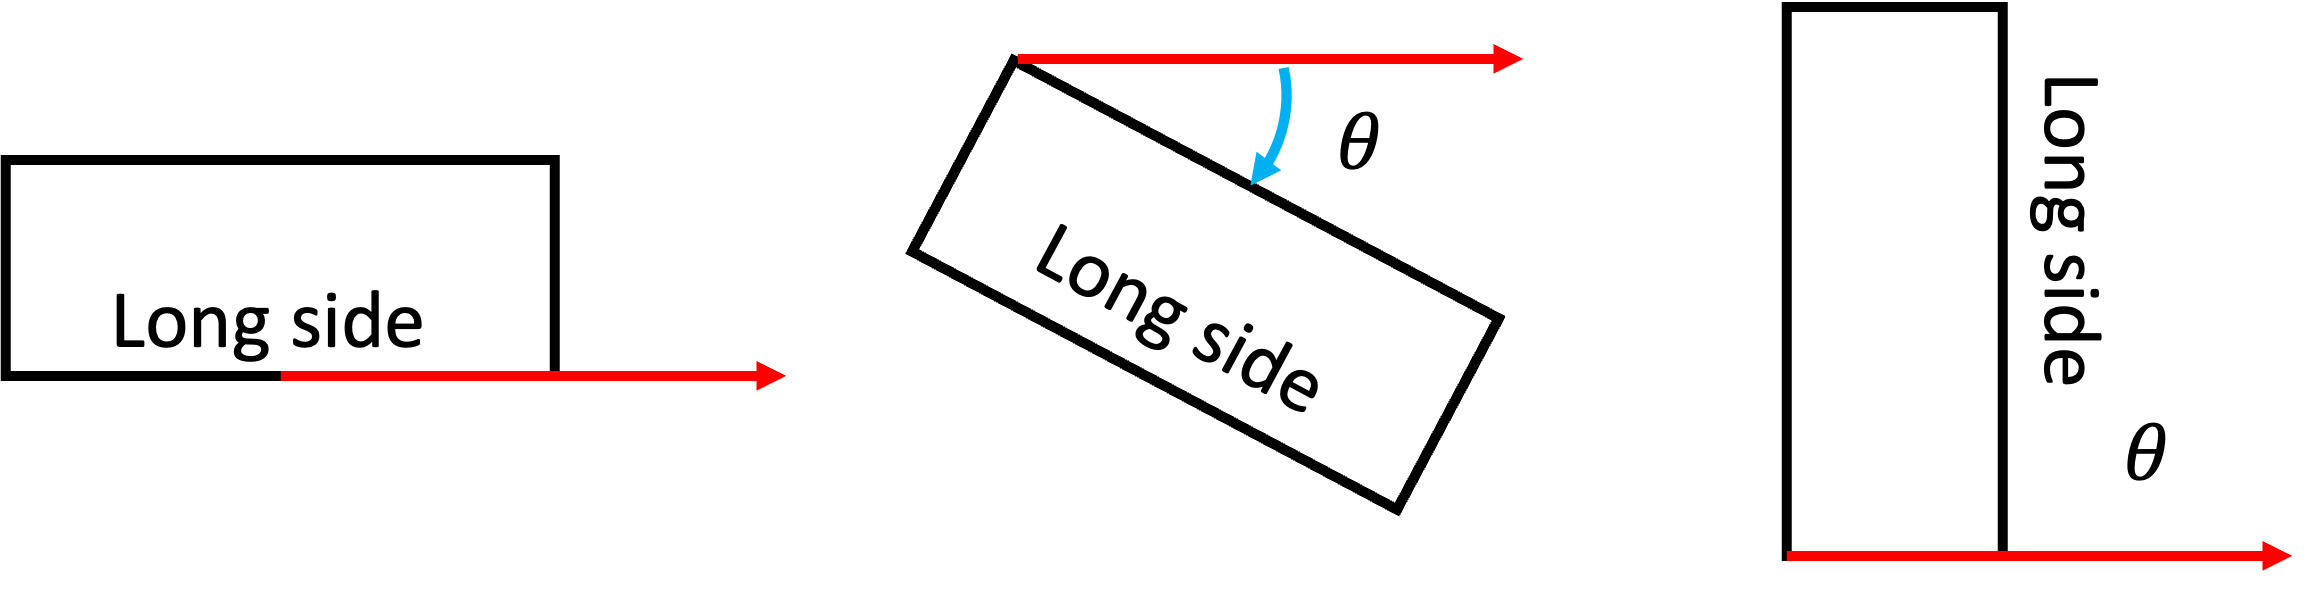
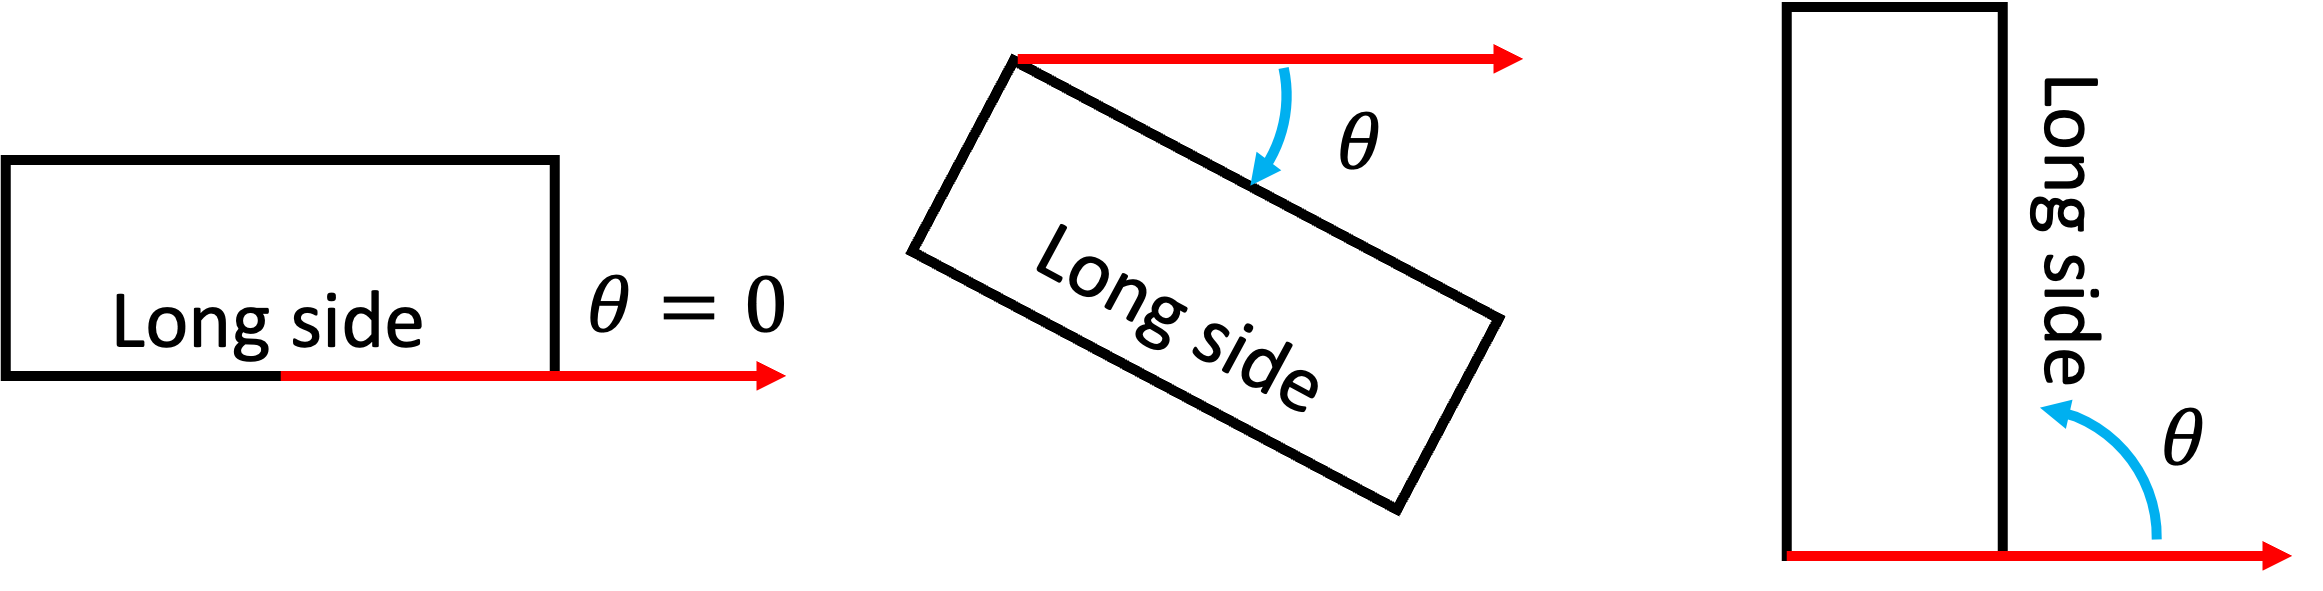
feat: Implement image carousel for system overview with new figures and update instrument tracking section with new definitions.

Changed region(s): [[0.8678, 0.6701, 0.9608, 0.9137], [0.248, 0.4569, 0.3409, 0.5787]]

diff --git a/index.html b/index.html
@@ -324,16 +324,80 @@
     <section class="section" style="padding-top: 2rem; padding-bottom: 1rem;">
       <div class="container is-max-desktop has-text-centered">
         <h2 class="title is-3">System Overview</h2>
-        <!-- TODO: Replace with your system overview figure -->
-        <figure class="image" style="margin: 0 auto; max-width: 900px;">
-          <img src="static/images/fig_system_overview.png"
-            alt="Overview of the AI-empowered one-surgeon-four-arm robotic system for solo hysterectomy" loading="lazy"
-            style="width: 100%; border-radius: 8px; box-shadow: 0 4px 24px rgba(0,0,0,0.12);" />
-        </figure>
-        <p class="subtitle is-6 has-text-centered" style="margin-top: 1rem; color: #555;">
-          <b>Fig. 1.</b> Overview of the AI-empowered cooperative one-surgeon-four-arm (OSFA) robotic system.
-          <!-- TODO: Replace with your figure caption -->
-        </p>
+
+        <!-- Image Gallery / Carousel -->
+        <div class="osfa-gallery" id="systemOverviewGallery" style="position:relative; max-width:900px; margin:0 auto;">
+
+          <!-- Viewport: clips overflowing slides -->
+          <div style="overflow:hidden; border-radius:8px;">
+            <!-- Track: slides laid out side-by-side -->
+            <div id="systemOverviewGallery-track"
+              style="display:flex; transition:transform 0.45s cubic-bezier(0.4,0,0.2,1); will-change:transform;">
+
+              <div class="osfa-slide" style="min-width:100%; box-sizing:border-box;">
+                <figure class="image">
+                  <img src="static/images/fig1_v2.jpg"
+                    alt="Overview of the AI-empowered one-surgeon-four-arm robotic system for solo hysterectomy"
+                    loading="lazy" style="width:100%; border-radius:8px; box-shadow:0 4px 24px rgba(0,0,0,0.12);" />
+                </figure>
+                <p class="subtitle is-6 has-text-centered" style="margin-top:1rem; color:#555;">
+                  <b>Fig. 1.</b> Overview of the AI-empowered cooperative one-surgeon-four-arm (OSFA) robotic system.
+                </p>
+              </div>
+
+              <div class="osfa-slide" style="min-width:100%; box-sizing:border-box;">
+                <figure class="image">
+                  <img src="static/images/fig2_v2.jpg" alt="Second system overview figure — placeholder" loading="lazy"
+                    style="width:100%; border-radius:8px; box-shadow:0 4px 24px rgba(0,0,0,0.12);" />
+                </figure>
+                <p class="subtitle is-6 has-text-centered" style="margin-top:1rem; color:#555;">
+                  <b>Fig. 2.</b> Schematic overview and hardware design of OSFA system for total
+                  laparoscopic hysterectomy.
+                </p>
+              </div>
+
+            </div>
+          </div>
+
+          <!-- Prev / Next arrows -->
+          <button onclick="osfa_gallery_prev('systemOverviewGallery')" style="position:absolute; top:42%; left:-2.5rem; transform:translateY(-50%);
+                   background:rgba(255,255,255,0.85); border:none; border-radius:50%;
+                   width:2.2rem; height:2.2rem; font-size:1.1rem; cursor:pointer;
+                   box-shadow:0 2px 8px rgba(0,0,0,0.15); display:flex; align-items:center; justify-content:center;"
+            aria-label="Previous figure">&#8249;</button>
+          <button onclick="osfa_gallery_next('systemOverviewGallery')" style="position:absolute; top:42%; right:-2.5rem; transform:translateY(-50%);
+                   background:rgba(255,255,255,0.85); border:none; border-radius:50%;
+                   width:2.2rem; height:2.2rem; font-size:1.1rem; cursor:pointer;
+                   box-shadow:0 2px 8px rgba(0,0,0,0.15); display:flex; align-items:center; justify-content:center;"
+            aria-label="Next figure">&#8250;</button>
+
+          <!-- Dot indicators -->
+          <div id="systemOverviewGallery-dots"
+            style="margin-top:0.75rem; display:flex; justify-content:center; gap:0.4rem;">
+            <span onclick="osfa_gallery_goto('systemOverviewGallery',0)"
+              style="width:8px;height:8px;border-radius:50%;background:#333;cursor:pointer;display:inline-block;opacity:1;transition:opacity 0.3s;"></span>
+            <span onclick="osfa_gallery_goto('systemOverviewGallery',1)"
+              style="width:8px;height:8px;border-radius:50%;background:#333;cursor:pointer;display:inline-block;opacity:0.3;transition:opacity 0.3s;"></span>
+          </div>
+        </div>
+
+        <script>
+          (function () {
+            var _idx = { systemOverviewGallery: 0 };
+            function _count(id) { return document.querySelectorAll('#' + id + ' .osfa-slide').length; }
+            function _dots(id) { return document.querySelectorAll('#' + id + '-dots span'); }
+            function _show(id, idx) {
+              var n = _count(id);
+              idx = ((idx % n) + n) % n;
+              _idx[id] = idx;
+              document.getElementById(id + '-track').style.transform = 'translateX(-' + (idx * 100) + '%)';
+              _dots(id).forEach(function (d, i) { d.style.opacity = i === idx ? '1' : '0.3'; });
+            }
+            window.osfa_gallery_prev = function (id) { _show(id, _idx[id] - 1); };
+            window.osfa_gallery_next = function (id) { _show(id, (_idx[id] || 0) + 1); };
+            window.osfa_gallery_goto = function (id, i) { _show(id, i); };
+          })();
+        </script>
       </div>
     </section>
     <!-- End hero figure -->
@@ -495,7 +559,44 @@
 
         <!-- ── 1. Instrument Tracking & Depth Estimation ── -->
         <h3 class="title is-4" style="margin-top: 2.5rem;">1 · Instrument Tracking &amp; Depth Estimation</h3>
-        <h4 class="title is-5" style="margin-top: 2rem;">Tool Tracking Dataset</h4>
+        <h4 class="title is-5" style="margin-top: 2rem;">Tool Detection Dataset</h4>
+
+        <p class="mb-3 has-text-justified">
+          Each instrument is represented by its <b>top-left corner</b> (the bounding-rectangle corner closest to the
+          image origin) and orientation angle <b>θ</b> (the acute angle between the instrument axis and the
+          horizontal).
+        </p>
+        <!-- Illustrative figures: top-left definition & theta definition -->
+        <div class="columns is-vcentered" style="margin-bottom:1.5rem;">
+          <div class="column">
+            <figure class="image">
+              <img src="static/images/definition_topleft.png"
+                alt="Illustration of top-left corner definition for surgical instruments" loading="lazy"
+                style="border-radius:8px; box-shadow:0 4px 16px rgba(0,0,0,0.10);" />
+            </figure>
+            <p class="has-text-centered is-size-7" style="margin-top:0.5rem; color:#555;">
+              <!-- TODO: Replace image src -->
+              Illustration of the <b>top-left corner</b> definition on a laparoscopic instrument.
+            </p>
+          </div>
+          <div class="column">
+            <figure class="image">
+              <img src="static/images/definition_box.png"
+                alt="Illustration of theta orientation angle for surgical instruments" loading="lazy"
+                style="border-radius:8px; box-shadow:0 4px 16px rgba(0,0,0,0.10);" />
+            </figure>
+            <p class="has-text-centered is-size-7" style="margin-top:0.5rem; color:#555;">
+              <!-- TODO: Replace image src -->
+              Illustration of the orientation angle <b>θ</b> relative to the horizontal image axis.
+            </p>
+          </div>
+        </div>
+
+        <p class="mb-3 has-text-justified">
+          We convert the instance-annotated dataset (<b>Fig. A</b>) into a top-left corner
+          representation by deriving each instrument's top-left corner and orientation angle <b>θ</b>,
+          yielding the converted dataset shown in <b>Fig. B</b>.
+        </p>
         <div class="columns is-vcentered">
           <div class="column">
             <figure class="image">
@@ -503,7 +604,7 @@
                 style="border-radius:8px; box-shadow:0 4px 16px rgba(0,0,0,0.10);" />
             </figure>
             <p class="has-text-centered is-size-7" style="margin-top:0.5rem; color:#555;">
-              <b>Fig. A.</b> Labeled tool tracking dataset with instance annotations.
+              <b>Fig. A.</b> Labeled tool detection dataset with instance annotations.
             </p>
           </div>
           <div class="column">
@@ -517,36 +618,61 @@
           </div>
         </div>
 
+        <h4 class="title is-5" style="margin-top: 2rem;">Detailed In-Vivo Tracking Cases</h4>
         <p class="mb-4 has-text-justified">
-          Real-time tracking of surgical instruments at 60 fps with simultaneous depth estimation,
-          enabling robust 3-D awareness in live surgical scenes.
+          Representative clips from four in-vivo surgical sequences demonstrating robust real-time
+          instrument tracking under clinical conditions (with 2x speedup playback).
         </p>
-        <div class="columns">
-          <div class="column">
+        <div class="columns is-multiline">
+          <div class="column is-half">
             <div class="card">
               <div class="card-image">
-                <video controls muted loop width="100%" preload="metadata" style="display:block;">
-                  <source src="static/videos/res_tracking_smooth.mp4" type="video/mp4">
+                <video autoplay controls muted loop width="100%" preload="metadata" style="display:block;">
+                  <source src="static/videos/invivo_tracking_v1-clips01-x2.mp4" type="video/mp4">
                 </video>
               </div>
               <div class="card-content">
-                <p class="title is-6">Smooth Real-Time Tracking</p>
-                <p class="subtitle is-7">Multi-instrument detection and tracking at 60 fps under challenging surgical
-                  conditions.</p>
+                <p class="title is-6">In-Vivo Case 1</p>
+                <p class="subtitle is-7">Real-time instrument tracking in a live surgical scene.</p>
               </div>
             </div>
           </div>
-          <div class="column">
+          <div class="column is-half">
             <div class="card">
               <div class="card-image">
-                <video controls muted loop width="100%" preload="metadata" style="display:block;">
-                  <source src="static/videos/res_depth_estimation.mp4" type="video/mp4">
+                <video autoplay controls muted loop width="100%" preload="metadata" style="display:block;">
+                  <source src="static/videos/invivo_tracking_v1-clips02-x2.mp4" type="video/mp4">
                 </video>
               </div>
               <div class="card-content">
-                <p class="title is-6">Real-Time Depth Estimation (60 fps)</p>
-                <p class="subtitle is-7">Dense depth maps inferred in real time, providing the robot with accurate
-                  instrument–tissue distance cues.</p>
+                <p class="title is-6">In-Vivo Case 2</p>
+                <p class="subtitle is-7">Continued tracking across a different phase.</p>
+              </div>
+            </div>
+          </div>
+          <div class="column is-half">
+            <div class="card">
+              <div class="card-image">
+                <video autoplay controls muted loop width="100%" preload="metadata" style="display:block;">
+                  <source src="static/videos/invivo_tracking_v2-clips01-x2.mp4" type="video/mp4">
+                </video>
+              </div>
+              <div class="card-content">
+                <p class="title is-6">In-Vivo Case 3</p>
+                <p class="subtitle is-7">Instrument tracking under challenging in-vivo conditions.</p>
+              </div>
+            </div>
+          </div>
+          <div class="column is-half">
+            <div class="card">
+              <div class="card-image">
+                <video autoplay controls muted loop width="100%" preload="metadata" style="display:block;">
+                  <source src="static/videos/invivo_tracking_v2-clips02-x2.mp4" type="video/mp4">
+                </video>
+              </div>
+              <div class="card-content">
+                <p class="title is-6">In-Vivo Case 4</p>
+                <p class="subtitle is-7">Robust tracking maintained through complex instrument interactions.</p>
               </div>
             </div>
           </div>
@@ -614,9 +740,10 @@
 
         <h4 class="title is-5" style="margin-top: 2rem;">Phantom &amp; In-Vivo Validation Cases</h4>
         <p class="mb-4 has-text-justified">
-          Each case demonstrates the top-left corner tracking mechanism. For every video, we show
-          the <b>initial top-left corner label</b> (before processing) alongside <b>our tracked
-            top-left corner result</b>, highlighting the improvement in localization accuracy.
+          Each case illustrates the top-left corner tracking mechanism by juxtaposing the
+          <b>initial top-left corner label</b> (raw detector output) with <b>our tracked result</b>.
+          The initial predictions exhibit temporal discontinuities due to per-frame detection noise,
+          which our tracking mechanism effectively suppresses to yield temporally consistent localization.
         </p>
 
         <!-- Phantom cases -->
@@ -631,7 +758,7 @@
           style="margin-bottom:1.5rem; border-bottom:1px solid #eee; padding-bottom:1.5rem;">
           <div class="column is-half">
             <p class="is-size-7 has-text-weight-bold mb-1">Phantom Case 1</p>
-            <video controls muted loop width="100%" preload="metadata"
+            <video autoplay controls muted loop width="100%" preload="metadata"
               style="display:block; border-radius:6px; box-shadow:0 2px 8px rgba(0,0,0,0.10);">
               <source src="static/videos/res_phantom_case1.mp4" type="video/mp4">
             </video>
@@ -662,7 +789,7 @@
           style="margin-bottom:1.5rem; border-bottom:1px solid #eee; padding-bottom:1.5rem;">
           <div class="column is-half">
             <p class="is-size-7 has-text-weight-bold mb-1">Phantom Case 2</p>
-            <video controls muted loop width="100%" preload="metadata"
+            <video autoplay controls muted loop width="100%" preload="metadata"
               style="display:block; border-radius:6px; box-shadow:0 2px 8px rgba(0,0,0,0.10);">
               <source src="static/videos/res_phantom_case2.mp4" type="video/mp4">
             </video>
@@ -693,7 +820,7 @@
           style="margin-bottom:1.5rem; border-bottom:1px solid #eee; padding-bottom:1.5rem;">
           <div class="column is-half">
             <p class="is-size-7 has-text-weight-bold mb-1">Phantom Case 3</p>
-            <video controls muted loop width="100%" preload="metadata"
+            <video autoplay controls muted loop width="100%" preload="metadata"
               style="display:block; border-radius:6px; box-shadow:0 2px 8px rgba(0,0,0,0.10);">
               <source src="static/videos/res_phantom_case3.mp4" type="video/mp4">
             </video>
@@ -729,7 +856,7 @@
           style="margin-bottom:1.5rem; border-bottom:1px solid #eee; padding-bottom:1.5rem;">
           <div class="column is-half">
             <p class="is-size-7 has-text-weight-bold mb-1">In-Vivo Case 1</p>
-            <video controls muted loop width="100%" preload="metadata"
+            <video autoplay controls muted loop width="100%" preload="metadata"
               style="display:block; border-radius:6px; box-shadow:0 2px 8px rgba(0,0,0,0.10);">
               <source src="static/videos/res_invivo_case1.mp4" type="video/mp4">
             </video>
@@ -760,7 +887,7 @@
           style="margin-bottom:1.5rem; border-bottom:1px solid #eee; padding-bottom:1.5rem;">
           <div class="column is-half">
             <p class="is-size-7 has-text-weight-bold mb-1">In-Vivo Case 2</p>
-            <video controls muted loop width="100%" preload="metadata"
+            <video autoplay controls muted loop width="100%" preload="metadata"
               style="display:block; border-radius:6px; box-shadow:0 2px 8px rgba(0,0,0,0.10);">
               <source src="static/videos/res_invivo_case2.mp4" type="video/mp4">
             </video>
@@ -790,7 +917,7 @@
         <div class="columns is-vcentered" style="margin-bottom:2rem;">
           <div class="column is-half">
             <p class="is-size-7 has-text-weight-bold mb-1">In-Vivo Case 3</p>
-            <video controls muted loop width="100%" preload="metadata"
+            <video autoplay controls muted loop width="100%" preload="metadata"
               style="display:block; border-radius:6px; box-shadow:0 2px 8px rgba(0,0,0,0.10);">
               <source src="static/videos/res_invivo_case3.mp4" type="video/mp4">
             </video>
@@ -820,7 +947,7 @@
         <h3 class="title is-4" style="margin-top: 3rem;">2 · GUI Interface</h3>
         <p class="mb-4 has-text-justified">
           The surgeon-facing GUI integrates real-time surgical scene understanding, instrument
-          tracking overlays, laparoscope control feedback, and LoCC mode selection in a single
+          tracking overlays, laparoscope/uterus control feedback, and LoCC mode selection in a single
           unified interface.
         </p>
         <figure class="image" style="margin: 0 auto;">
@@ -833,17 +960,31 @@
         </p>
 
         <!-- ── 3. Automated Laparoscope Control ── -->
-        <h3 class="title is-4" style="margin-top: 3rem;">3 · Automated Laparoscope Control</h3>
+        <h3 class="title is-4" style="margin-top: 3rem;">3 · 3D Automatic Laparoscope Control</h3>
         <p class="mb-4 has-text-justified">
           The system autonomously adjusts laparoscope position and field-of-view scale in real time
           based on surgical scene understanding — eliminating the need for an assistant to hold or
           reposition the camera during the procedure.
         </p>
-        <div class="columns is-centered">
-          <div class="column is-three-quarters">
+        <div class="columns">
+          <div class="column">
             <div class="card">
               <div class="card-image">
-                <video controls muted loop width="100%" preload="metadata" style="display:block;">
+                <video autoplay controls muted loop width="100%" preload="metadata" style="display:block;">
+                  <source src="static/videos/res_depth_estimation.mp4" type="video/mp4">
+                </video>
+              </div>
+              <div class="card-content">
+                <p class="title is-6">Real-Time Depth Estimation (60 fps)</p>
+                <p class="subtitle is-7">Dense depth maps inferred in real time, providing the robot with accurate
+                  instrument distance cues.</p>
+              </div>
+            </div>
+          </div>
+          <div class="column">
+            <div class="card">
+              <div class="card-image">
+                <video autoplay controls muted loop width="100%" preload="metadata" style="display:block;">
                   <source src="static/videos/laparoscope_control_dynamic_scale.mp4" type="video/mp4">
                 </video>
               </div>
@@ -851,14 +992,14 @@
                 <p class="title is-6">Automated Laparoscope Control with Dynamic Scale</p>
                 <p class="subtitle is-7">
                   AI-driven laparoscope repositioning and zoom adaptation in response to changing
-                  surgical phase and instrument positions, demonstrated in a representative case.
+                  surgical phase and instrument positions.
                 </p>
               </div>
             </div>
           </div>
         </div>
 
-        <!-- ── 4. Voice Control ── -->
+        <!-- ── 4. Voice Control ──
         <h3 class="title is-4" style="margin-top: 3rem;">4 · Voice-Commanded Robot Motion</h3>
         <p class="mb-4 has-text-justified">
           The primary surgeon can issue verbal commands to adjust robot positions, freeing both
@@ -881,10 +1022,10 @@
               </div>
             </div>
           </div>
-        </div>
+        </div> -->
 
-        <!-- ── 5. User Study ── -->
-        <h3 class="title is-4" style="margin-top: 3rem;">5 · User Study</h3>
+        <!-- ── 4. User Study ──
+        <h3 class="title is-4" style="margin-top: 3rem;">4 · Extra User Study</h3>
         <p class="mb-4 has-text-justified">
           A structured user study was conducted to evaluate surgeon experience and performance
           with the OSFA system's laparoscope and uterine manipulator control interfaces across
@@ -913,10 +1054,10 @@
               <b>Fig. G.</b> User study results for robotic uterine manipulator control.
             </p>
           </div>
-        </div>
+        </div> -->
 
-        <!-- ── 6. Cadaver Integration (+ Control Mode Distribution) ── -->
-        <h3 class="title is-4" style="margin-top: 3rem;">6 · Cadaver Integration</h3>
+        <!-- ── 4. Cadaver Integration (+ Control Mode Distribution) ── -->
+        <h3 class="title is-4" style="margin-top: 3rem;">4 · Cadaver Integration</h3>
         <p class="mb-4 has-text-justified">
           Full system integration validated in a clinical cadaver setting, demonstrating the
           seamless cooperation of all four robotic arms under real operating theater conditions.
@@ -939,7 +1080,7 @@
         </p>
         <div class="columns">
           <div class="column">
-            <figure class="image" style="max-width:480px; margin:0 auto;">
+            <figure class="image" style="max-width:300px; margin:0 auto;">
               <img src="static/images/fig_pie_laparoscope.png" alt="Control mode rate pie chart for robotic laparoscope"
                 loading="lazy" style="border-radius:8px; box-shadow:0 4px 16px rgba(0,0,0,0.10); width:100%;" />
             </figure>
@@ -949,7 +1090,7 @@
             </p>
           </div>
           <div class="column">
-            <figure class="image" style="max-width:480px; margin:0 auto;">
+            <figure class="image" style="max-width:300px; margin:0 auto;">
               <img src="static/images/fig_pie_uterus.png"
                 alt="Control mode rate pie chart for robotic uterus manipulator" loading="lazy"
                 style="border-radius:8px; box-shadow:0 4px 16px rgba(0,0,0,0.10); width:100%;" />
